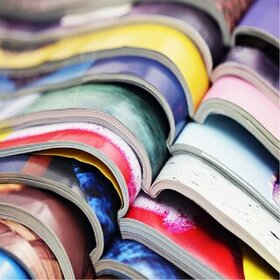
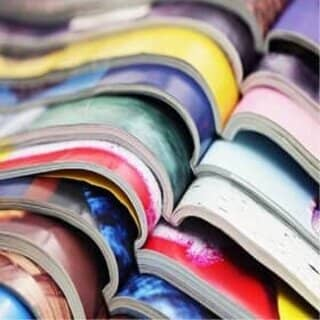
Compressed images and folders architecture

diff --git a/css/style.css b/css/style.css
@@ -24,7 +24,7 @@ a:hover {
     bottom: 0;
     width: 100%;
     z-index: 100000;
-    background: #FFFFFF url("img/pageload-spinner.gif") no-repeat center center;
+    background: #FFFFFF url("../img/pageload-spinner.gif") no-repeat center center;
 }
 
 .bloc {
@@ -91,7 +91,7 @@ a:hover {
 }
 
 .texture-paper::before {
-    background: url("img/texture-paper.png");
+    background: url("../img/texture-paper.png");
     background-size: 280px 280px;
 }
 
@@ -100,7 +100,7 @@ a:hover {
 }
 
 .d-bloc {
-    color: rgba(255, 255, 255, .7);
+    color: #fff;
 }
 
 .d-bloc button:hover {
@@ -133,7 +133,7 @@ a:hover {
 .d-bloc h5 a,
 .d-bloc h6 a,
 .d-bloc p a {
-    color: rgba(255, 255, 255, .6);
+    color: #fff;
 }
 
 .d-bloc .a-btn:hover,
@@ -363,12 +363,12 @@ a:hover {
 }
 
 .titre-1 {
-        font-size: 22px;
-        margin: 6px 13%;
+        font-size: 25.6px;
+        margin: 6px 27%;
 }
 
 .titre-2{
-    font-size: 20px;
+    font-size: 25.6px;
     margin: 6px 2%;
 }
 
@@ -390,6 +390,11 @@ small {
 h3{
     max-width:300px;
     margin:auto;
+}
+
+.images{
+    display: flex;
+    justify-content: center;
 }
 
 
@@ -720,7 +725,7 @@ body{
 }
 
 p {
-    font-size: 17px;
+    font-size: 15px;
 }
 
 
@@ -784,8 +789,7 @@ h4 {
 }
 
 .portfolio-thumb {
-    margin-bottom: 24px;
-    margin: 10px auto;
+    margin: 10px auto 24px auto;
 }
 
 .portfolio-row {
@@ -816,7 +820,7 @@ h4 {
 }
 
 .bgc-atomic-tangerine {
-    background-color: #F3976C;
+    background-color: #9F3210;
 }
 
 .tc-white {
@@ -824,7 +828,7 @@ h4 {
 }
 
 .btn-atomic-tangerine {
-    background: #F3976C;
+    background:#9F3210;
     color: #FFFFFF!important;
     width: 150px;
     margin: 20px auto;
@@ -857,19 +861,19 @@ h4 {
 }
 
 .bg-dots-bg {
-    background-image: url("img/dots-bg.png");
+    background-image: url("../img/dots-bg.png");
 }
 
 .bg-lines-h2-bg {
-    background-image: url("img/lines-h2-bg.png");
+    background-image: url("../img/lines-h2-bg.png");
 }
 
 .bg-banniere {
-    background-image: url("img/agence-la-panthere.jpg");
+    background-image: url("../img/agence-la-panthere.jpg");
 }
 
 .bg-presentation {
-    background-image: url("img/image-de-presentation.jpg");
+    background-image: url("../img/image-de-presentation.jpg");
 }
 
 @media (max-width: 1024px) {
@@ -949,8 +953,8 @@ h4 {
     h6,
     p,
     #disqus_thread {
-        padding-left: 10px!important;
-        padding-right: 10px!important;
+        padding-left: 15px!important;
+        padding-right: 15px!important;
     }
     .b-parallax {
         background-attachment: scroll;
@@ -1076,6 +1080,9 @@ h4 {
     .email-contact
     {
         padding-left:10px;
+    }
+    .titre-1 {
+        margin: 6px 2%;
     }
 }
 

diff --git a/index.html b/index.html
@@ -6,10 +6,10 @@
 	 à devenir attractives et visibles sur Internet">
     <meta name="viewport" content="width=device-width, initial-scale=1.0, viewport-fit=cover">
 	<meta content="index, follow" name=robots>
-    <link rel="shortcut icon" type="image/png" href="favicon.jpg">
+    <link rel="shortcut icon" type="image/png" href="../img/favicon.jpg">
     
 	<link rel="stylesheet" type="text/css" href="./css/bootstrap.css">
-	<link rel="stylesheet" type="text/css" href="style.css">
+	<link rel="stylesheet" type="text/css" href="./css/style.css">
 	<link rel="stylesheet" type="text/css" href="./css/font-awesome.css">
 	<link rel="stylesheet" type="text/css" href="./css/et-line.css">
 	
@@ -172,7 +172,7 @@
 						</div>
 					</div>
 					<div class="row tight-width-whitespace portfolio-row">
-						<article class="col-sm-6">
+						<article class="col-sm-6 mb-3">
 							<a href="#" data-lightbox="img/journal_local.jpg" data-gallery-id="gallery-1" data-caption="Refonte d'un site web pour un journal local" data-frame="snapshot-lb">
 								<img src="img/journal_local.jpg" 
 								alt="magazines colorées ouvertes et superposées" class="img-responsive portfolio-thumb" />
@@ -184,7 +184,7 @@
 								Nous avons créé une nouvelle identité visuelle pour un journal lyonnais.
 							</p>
 						</article>
-						<article class="col-sm-6">
+						<article class="col-sm-6 mb-3">
 							<a href="#" data-lightbox="img/photographe.jpg" data-gallery-id="gallery-1" data-caption="Création d'un site web pour photographes" data-frame="snapshot-lb">
 								<img src="img/photographe.jpg" class="img-responsive portfolio-thumb" 
 								alt="Une photographe qui prend des photos dans la nuit" />

diff --git a/contact.html b/contact.html
@@ -6,10 +6,10 @@
 	 à devenir attractives et visibles sur Internet">
     <meta name="viewport" content="width=device-width, initial-scale=1.0, viewport-fit=cover">
 	<meta content="index, follow" name=robots>
-    <link rel="shortcut icon" type="image/png" href="favicon.jpg">
+    <link rel="shortcut icon" type="image/jpg" href="../img/favicon.jpg">
     
 	<link rel="stylesheet" type="text/css" href="./css/bootstrap.css">
-	<link rel="stylesheet" type="text/css" href="style.css">
+	<link rel="stylesheet" type="text/css" href="./css/style.css">
 	<link rel="stylesheet" type="text/css" href="./css/font-awesome.css">
 	<link rel="stylesheet" type="text/css" href="./css/et-line.css">
 	
@@ -91,7 +91,7 @@
 									<label for="name">
 										Nom
 									</label>
-									<input id="name" name="name" class="form-control" placeholder="Enter your name" required />
+									<input id="name" name="name" class="form-control" type="text" placeholder="Enter your name"  required />
 								</div>
 								<div class="form-group">
 									<label for="email">
